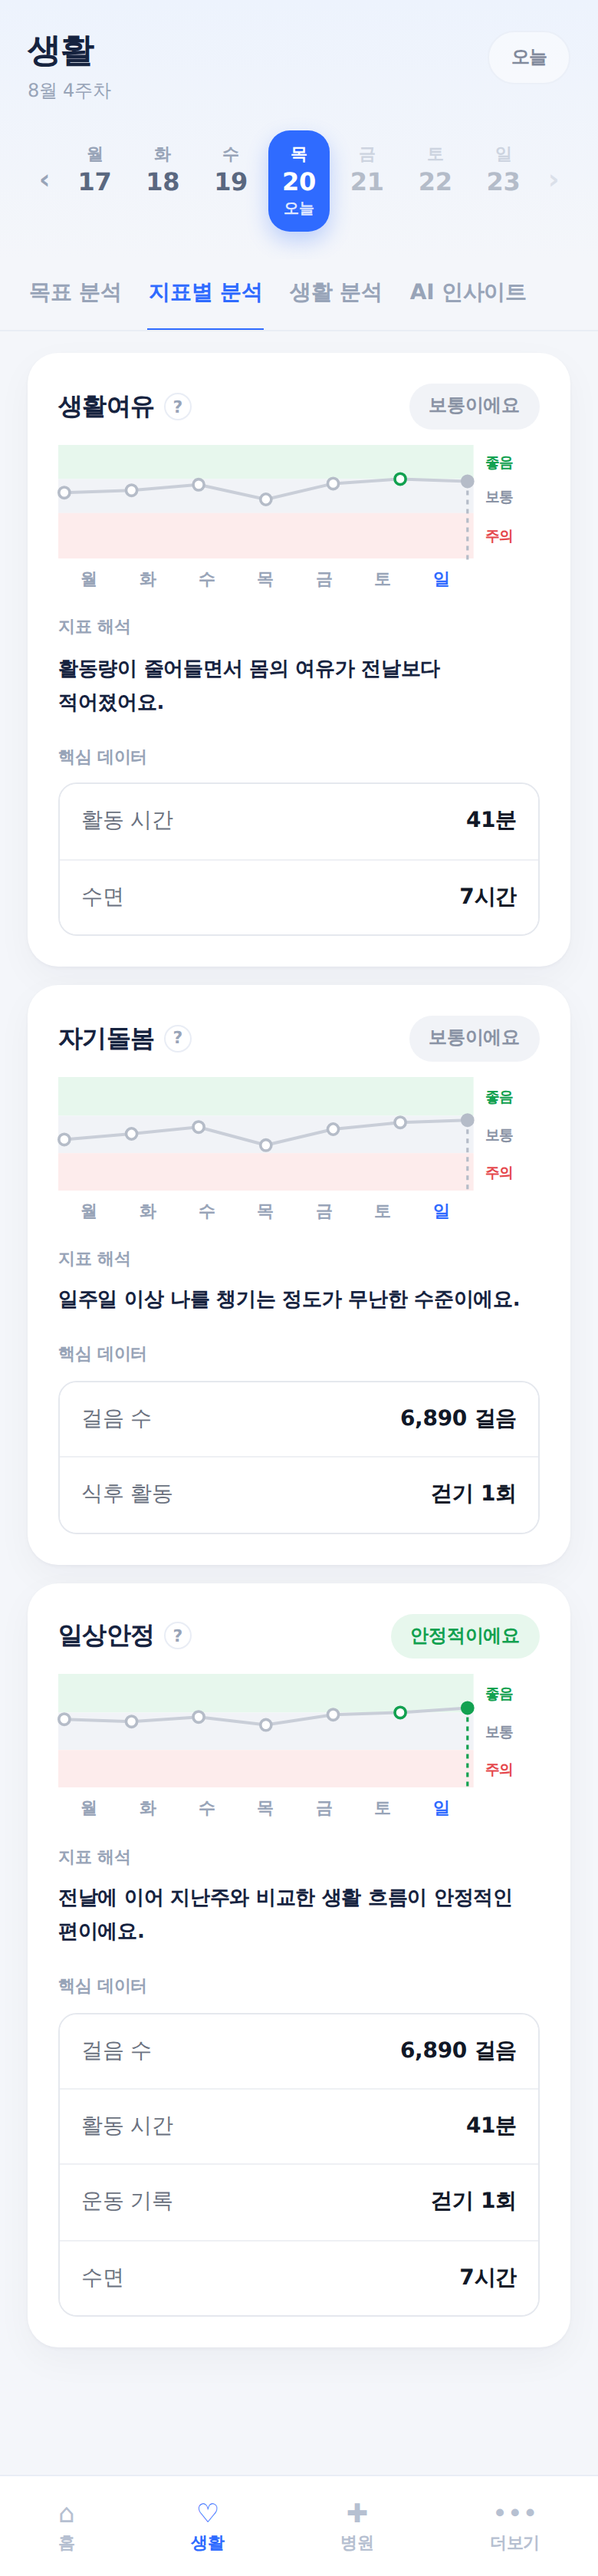
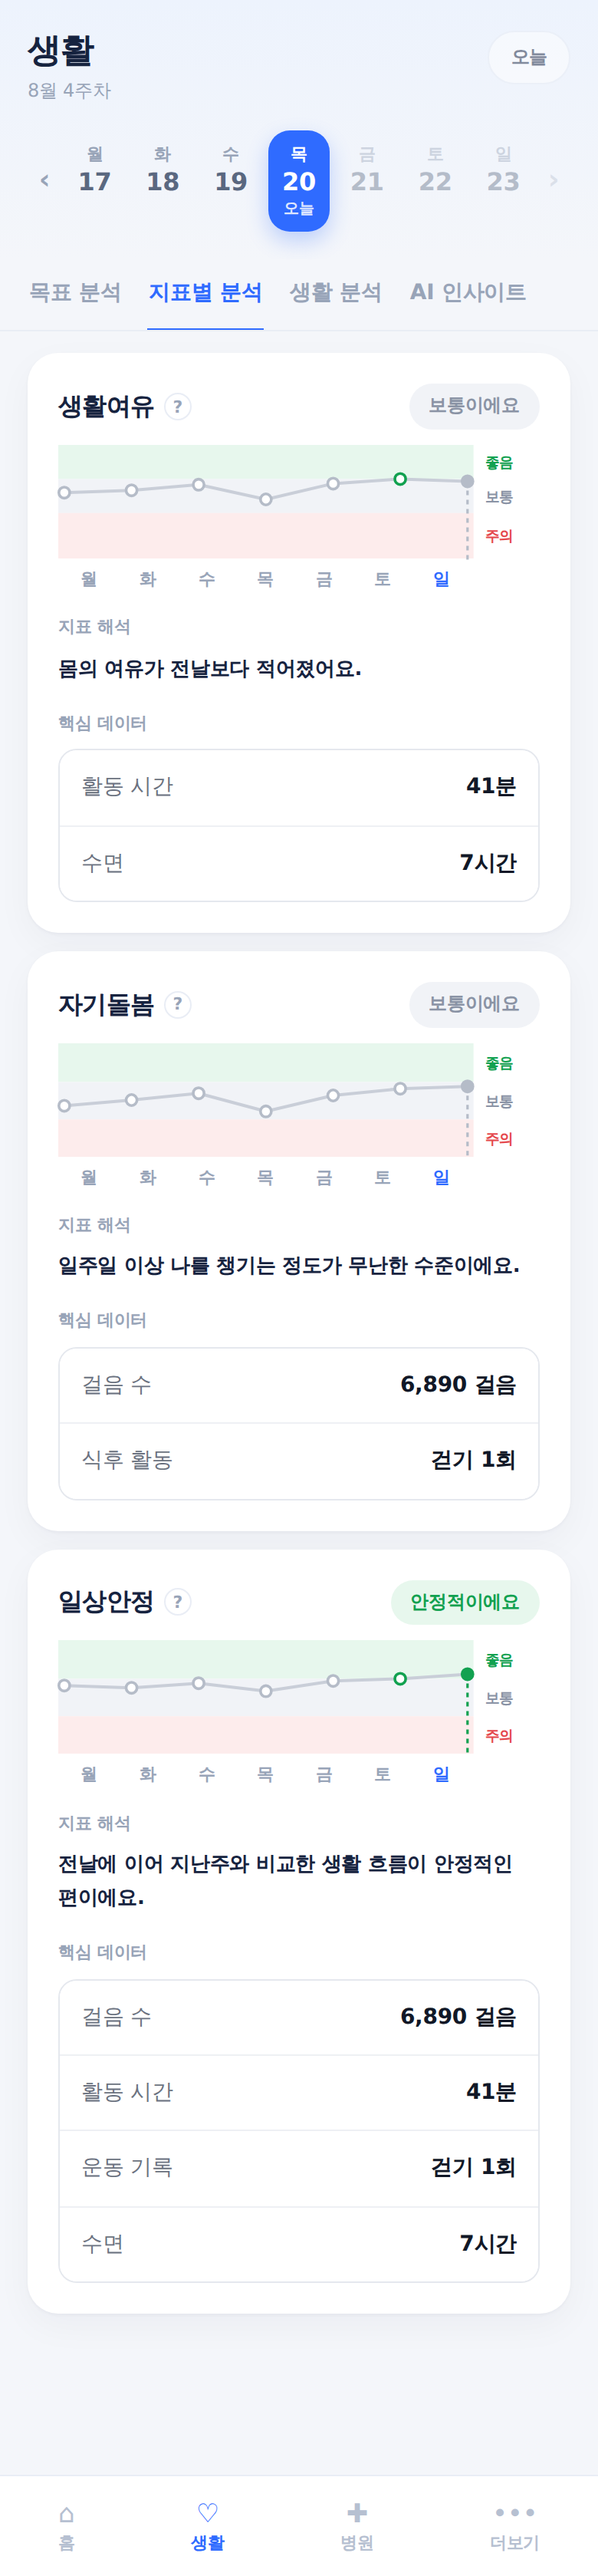
생활여유 이유를 점수 영향 기준으로 선택, 과한 활동은 가장 큰 원인일 때만

diff --git a/wip-metric-rules.html b/wip-metric-rules.html
@@ -114,7 +114,7 @@ ul.rules.no li::before{content:'✕';color:var(--low)}
 
   <h3>이유 고르는 규칙</h3>
   <ul class="rules">
-    <li>바뀐 방향으로 <b>가장 크게</b> 달라진 항목 <b>1개</b>만</li>
+    <li>바뀐 방향으로 <b>가장 크게</b> 달라진 항목 <b>1개</b>만 (생활여유는 아래 예외)</li>
     <li>변화가 <b>10% 미만</b>이면 이유 생략</li>
     <li>운동 · 식후 활동(횟수)은 변화율을 최대 30%로 잘라 계산</li>
     <li>주의가 이어진 날: 그 기간 <b>매일</b> 낮았던 항목만</li>
@@ -123,9 +123,9 @@ ul.rules.no li::before{content:'✕';color:var(--low)}
   <h3>지표별 예외</h3>
   <table>
     <tr><th>지표</th><th>규칙</th></tr>
-    <tr><td class="k">생활여유</td><td>활동 <b>240분 초과</b>면 늘어난 활동을 좋아진 이유로 안 씀</td></tr>
-    <tr><td class="k">생활여유</td><td>내려간 날 + 활동 240분 초과 + 전날보다 늘어남 → <b>‘활동이 많아 부담이 커지면서’ 우선</b></td></tr>
-    <tr><td class="k">생활여유</td><td>활동 분산 = 움직인 시간대 수 · 한 시간대 몰림으로 계산</td></tr>
+    <tr><td class="k">생활여유</td><td>변화율이 아닌 <b>점수에 준 영향</b>이 가장 큰 항목 1개 (2점 미만이면 생략)</td></tr>
+    <tr><td class="k">생활여유</td><td>후보 영향: 활동 시간(240분까지) · 수면(7시간 기준 부족분) · 활동 분산 · 과한 활동(240분 초과 감점)</td></tr>
+    <tr><td class="k">생활여유</td><td>과한 활동은 그 감점이 <b>가장 큰 원인일 때만</b> 씀</td></tr>
     <tr><td class="k">일상안정</td><td>하루 값이 아닌 <b>7일 평균</b>끼리 비교</td></tr>
     <tr><td class="k">일상안정</td><td>수면은 후보에서 제외 (산식의 수면은 시간이 아닌 규칙성)</td></tr>
   </table>

diff --git a/prototype.html b/prototype.html
@@ -4493,11 +4493,17 @@ function dayFlow(k, scores, i, valFn, judgeFn){
       if((up?r:-r)>bv){ bv=up?r:-r; best=dfKey(k,n); }
     });
     if(k==='margin'){
-      /* 생활여유: 과한 활동(240분 초과)과 분산(30%)도 원인으로 본다 */
+      /* 생활여유: 산식 몫의 점수 변화로 원인을 고른다 (활동 시간 20% · 활동 분산 30% · 과한 활동 12.5% · 수면 25%)
+         과한 활동도 감점이 실제로 가장 큰 원인일 때만 쓴다 */
+      const cl=v=>Math.max(0,Math.min(1,v)), ov=m=>1-cl((m-240)/240), sl=m=>cl(1-Math.max(0,420-m)/120);
       const ma=dfNum(valFn('활동 시간',i-1)), mb=dfNum(valFn('활동 시간',i));
-      if(!up && mb>240 && mb>ma) return `${DF_OVERLOAD} ${DF_MOVE[k].down}.`;
+      const qa=dfNum(valFn('수면',i-1)), qb=dfNum(valFn('수면',i));
       const sa=dfSpread(dfSafe(valFn,'활동 분산',i-1)), sb=dfSpread(dfSafe(valFn,'활동 분산',i));
-      if(sa!=null && sb!=null){ const r=(sb-sa)/Math.max(sa,0.1); if((up?r:-r)>bv){ bv=up?r:-r; best='분산'; } }
+      const c={'활동 시간':0.2*(cl(mb/240)-cl(ma/240)), '수면':0.25*(sl(qb)-sl(qa)), '과한':0.125*(ov(mb)-ov(ma))};
+      if(sa!=null && sb!=null) c['분산']=0.3*(sb-sa);
+      best=null; let bv2=0.02;   /* 2점 미만 변화는 이유로 쓰지 않음 */
+      Object.keys(c).forEach(n=>{ const v=up?c[n]:-c[n]; if(v>bv2){ bv2=v; best=n; } });
+      if(best==='과한') return `${DF_OVERLOAD} ${DF_MOVE[k].down}.`;
     }
     return `${best?DF_WHY[best][up?0:1]+' ':''}${k==='steady'?(cur==='mid'?DF_STEADY_TO.mid[up?'up':'down']:DF_STEADY_TO[cur]):DF_MOVE[k][up?'up':'down']}.`;
   }

diff --git a/wip-metric.html b/wip-metric.html
@@ -616,7 +616,7 @@ const SIDE = {
       ["#","지표 해석"],
       ["바뀐 날",["구간이 전날과 다르면 ‘{이유} {변화}.’","예: 수면 시간이 늘어나면서 몸의 여유가 어제보다 나아졌어요."]],
       ["이어진 날",["2일 ‘어제에 이어 ~’ · 3~6일 ‘N일 연속 ~’ · 7일↑ ‘일주일 이상 ~’","주의 3일 이상이면 이유 추가","예: 수면이 짧은 날이 이어지면서 3일 연속 남아 있는 몸의 여유가 부족해요."]],
-      ["이유",["가장 크게 달라진 항목 1개 (10% 미만이면 생략)","생활여유: 활동 시간 · 수면 · 활동 분산","자기돌봄: 걸음 수 · 식후 활동","일상안정: 걸음 수 · 활동 시간 · 운동 시간 (7일 평균)"]],
+      ["이유",["가장 크게 달라진 항목 1개 (10% 미만이면 생략)","생활여유: 활동 시간 · 수면 · 활동 분산 · 과한 활동 (점수 영향이 가장 큰 것)","자기돌봄: 걸음 수 · 식후 활동","일상안정: 걸음 수 · 활동 시간 · 운동 시간 (7일 평균)"]],
       ["기준일",["날짜 띠에서 고른 날 (배지 · 점선 · 핵심 데이터와 같은 날)","전날 기록 없으면 상태 문구만","오늘이 아닌 날: ‘어제’ → ‘전날’"]],
       ["갱신 · 숨김",["저장하지 않음, 값이 바뀌면 다시 만듦","관찰 중 · 미연동 · 계산 실패 시 숨김"]],
       ["상세 규칙","‘지표 해석 문장 규칙’ 문서 참고"]]},
